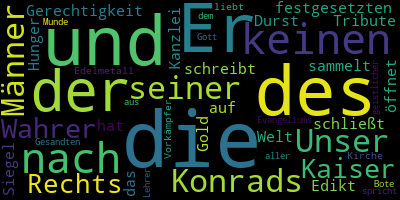
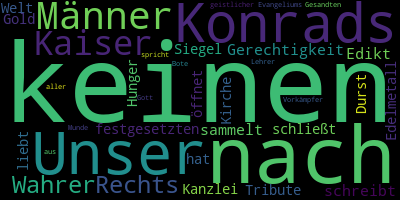
ger and lat stopwords added
Added German and Latin stop words in order to make word clouds more conclusive

diff --git a/text_extraction.py b/text_extraction.py
@@ -1,5 +1,6 @@
 import csv
 import matplotlib.pyplot as plt
+import wordcloud
 from matplotlib import cm
 from wordcloud import WordCloud
 
@@ -13,6 +14,12 @@ def plot_cloud(wordcloud, filename=None):
         plt.clf()
     else:
         plt.show()
+
+
+# Update Stopwords for WordCloud
+wordcloud.STOPWORDS.update(["der", "die", "das", "des", "er", "dem", "den", "und", "oder", "ein", "eine",
+                            "sie", "seiner", "Du", "zu", "auf", "als", "für", "von", "zum", "wir"])
+wordcloud.STOPWORDS.update(["nec", "ut", "et"])
 
 
 def get_row_tuple(row: list):
@@ -33,6 +40,7 @@ def get_row_tuple(row: list):
     except ValueError:
         ret_value["row_int"] = 0
     return ret_value
+
 
 def read_file(filename):
     list_of_actors = {}
